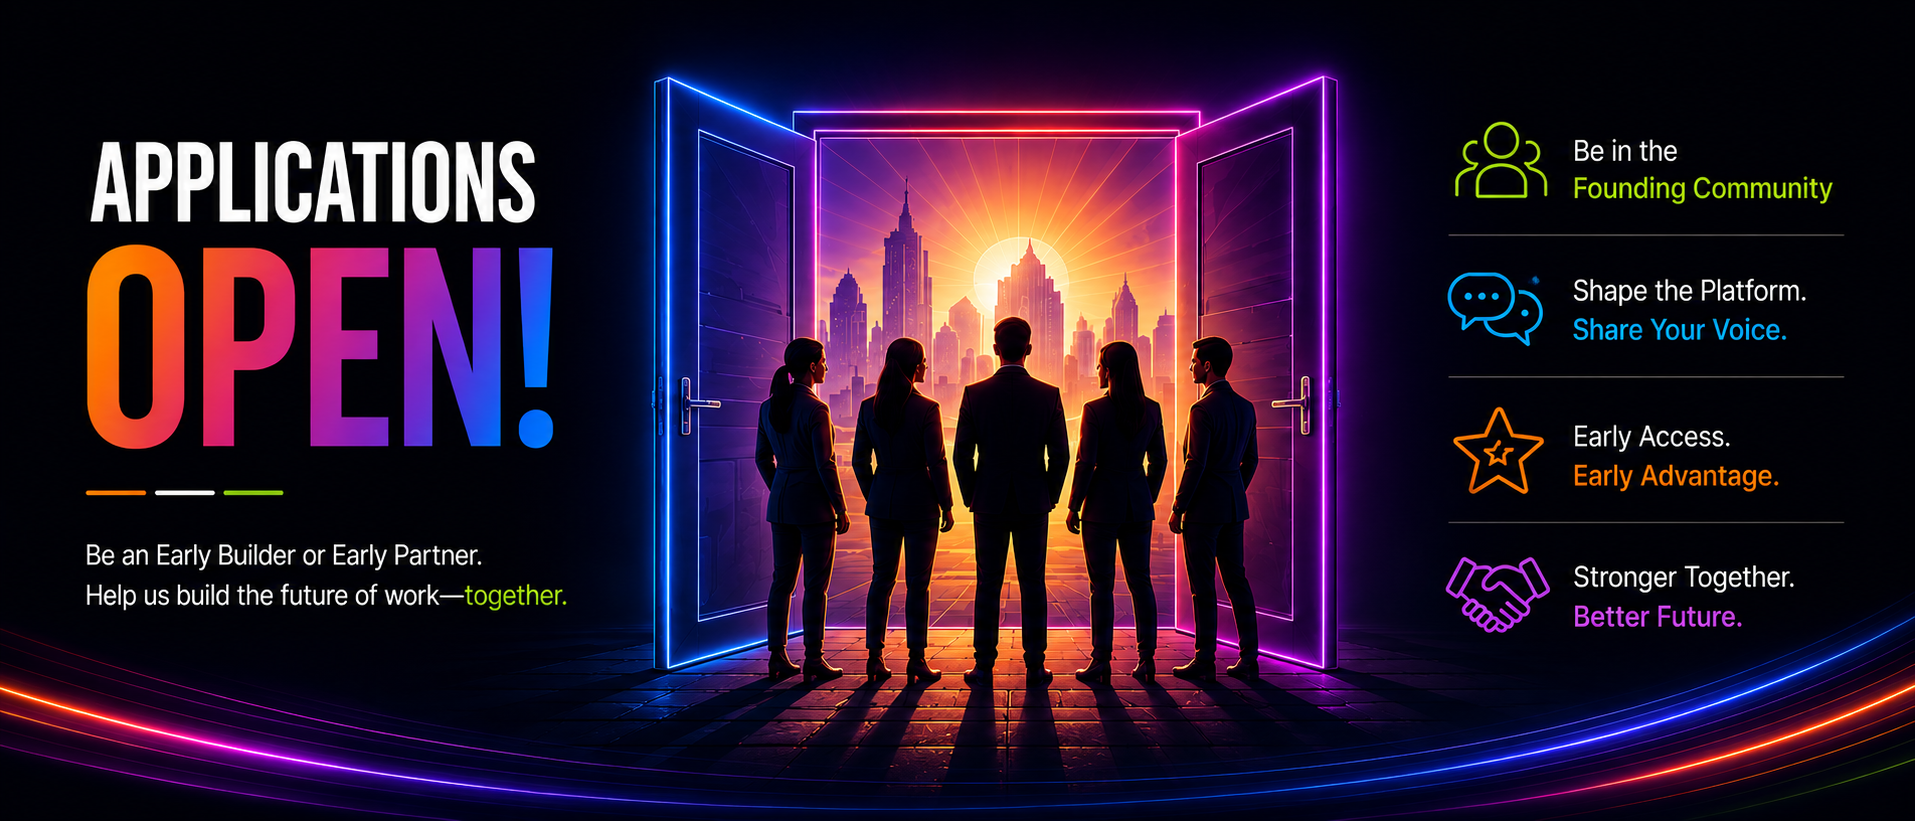
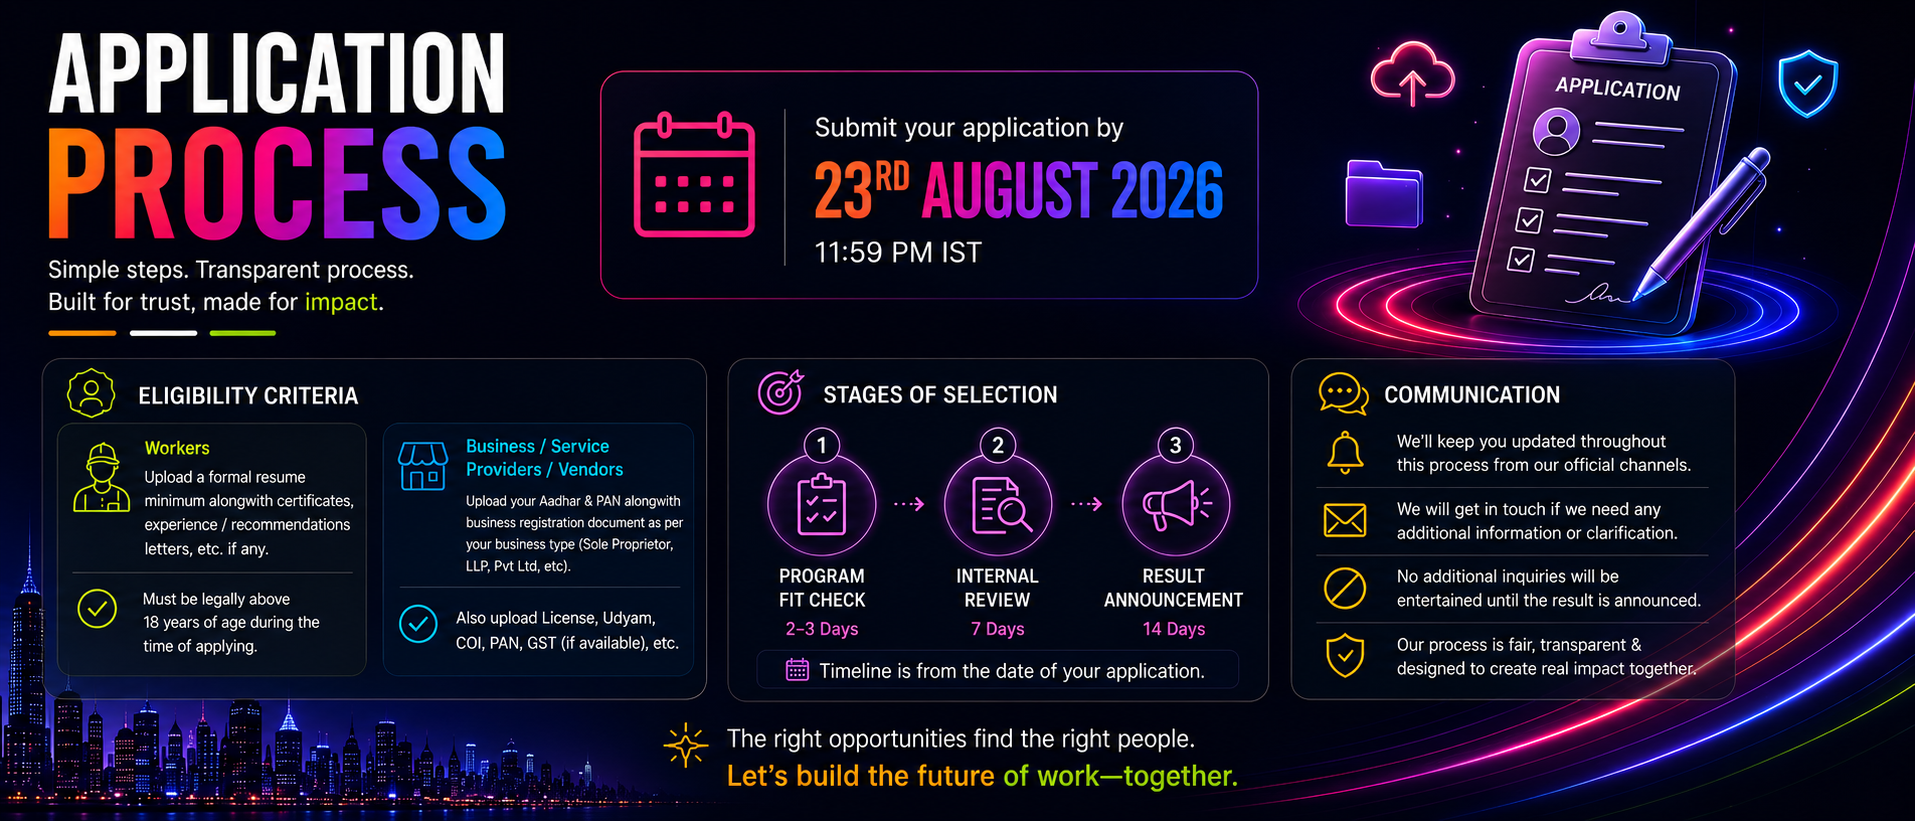
Restore announcement bar and updated hero images

diff --git a/src/components/AnnouncementBar.jsx b/src/components/AnnouncementBar.jsx
@@ -1,0 +1,72 @@
+function AnnouncementBar() {
+  const announcement = (
+    <div className="flex items-center gap-6 px-10 text-sm md:text-base font-medium">
+      <span className="text-lg">🚨</span>
+
+      <span className="text-transparent bg-clip-text bg-gradient-to-r from-orange-400 via-pink-500 to-purple-500 font-bold tracking-wide">
+        DEADLINE EXTENDED!
+      </span>
+
+      <span className="text-white/30">—</span>
+
+      <span className="text-white font-medium">
+        You still have time to apply!
+      </span>
+
+      <span className="text-orange-400 font-bold">
+        Applications close on:
+      </span>
+
+      <span className="text-white font-bold">
+        📅 23rd August 2026
+      </span>
+
+      <span className="text-white/50">
+        at
+      </span>
+
+      <span className="text-pink-400 font-bold">
+        11:59 PM IST
+      </span>
+
+      <span className="text-white/30">•</span>
+
+      <span className="text-yellow-400 font-bold">
+        ⏳ HURRY — DON'T MISS OUT!
+      </span>
+
+      <span className="text-white/30">•</span>
+    </div>
+  )
+
+  return (
+    <div className="fixed top-16 left-0 right-0 z-[50] bg-black border-b border-white/10 overflow-hidden">
+      <div className="relative flex items-center h-11 md:h-12">
+        <div className="flex animate-marquee whitespace-nowrap">
+          {announcement}
+          {announcement}
+          {announcement}
+          {announcement}
+        </div>
+      </div>
+
+      <style>{`
+        @keyframes marquee {
+          0% {
+            transform: translateX(0);
+          }
+
+          100% {
+            transform: translateX(-50%);
+          }
+        }
+
+        .animate-marquee {
+          animation: marquee 28s linear infinite;
+        }
+      `}</style>
+    </div>
+  )
+}
+
+export default AnnouncementBar

diff --git a/src/App.jsx b/src/App.jsx
@@ -2,10 +2,12 @@ import { BrowserRouter, Routes, Route } from 'react-router-dom'
 import Home from './pages/Home'
 import ApplicationProcess from './pages/ApplicationProcess'
 import AboutUs from './pages/AboutUs'
+import AnnouncementBar from './components/AnnouncementBar'
 
 function App() {
   return (
     <BrowserRouter>
+      <AnnouncementBar />
       <Routes>
         <Route path="/" element={<Home />} />
         <Route path="/application-process" element={<ApplicationProcess />} />
